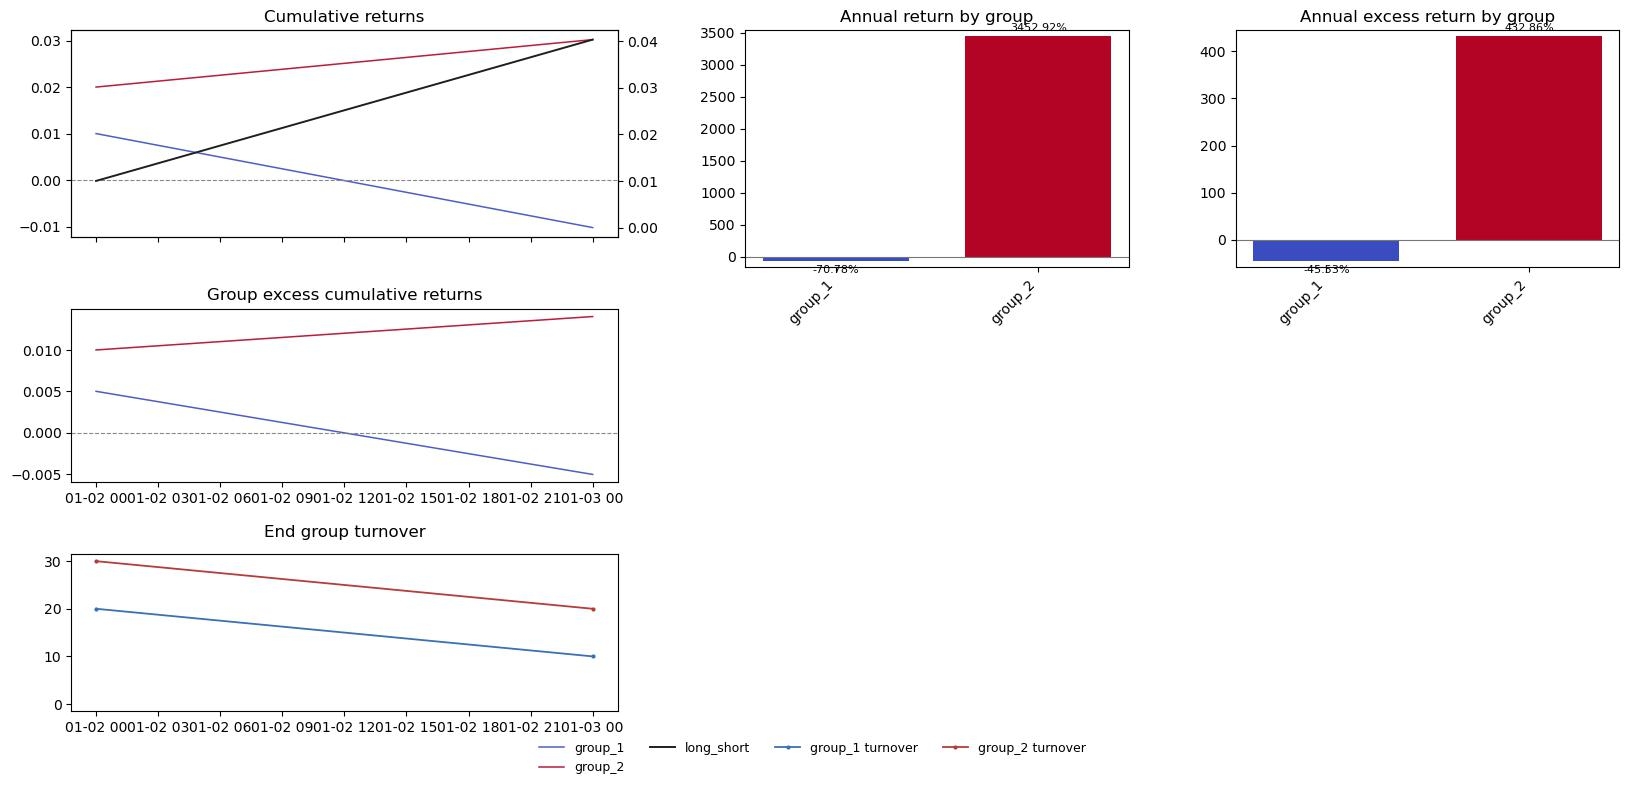
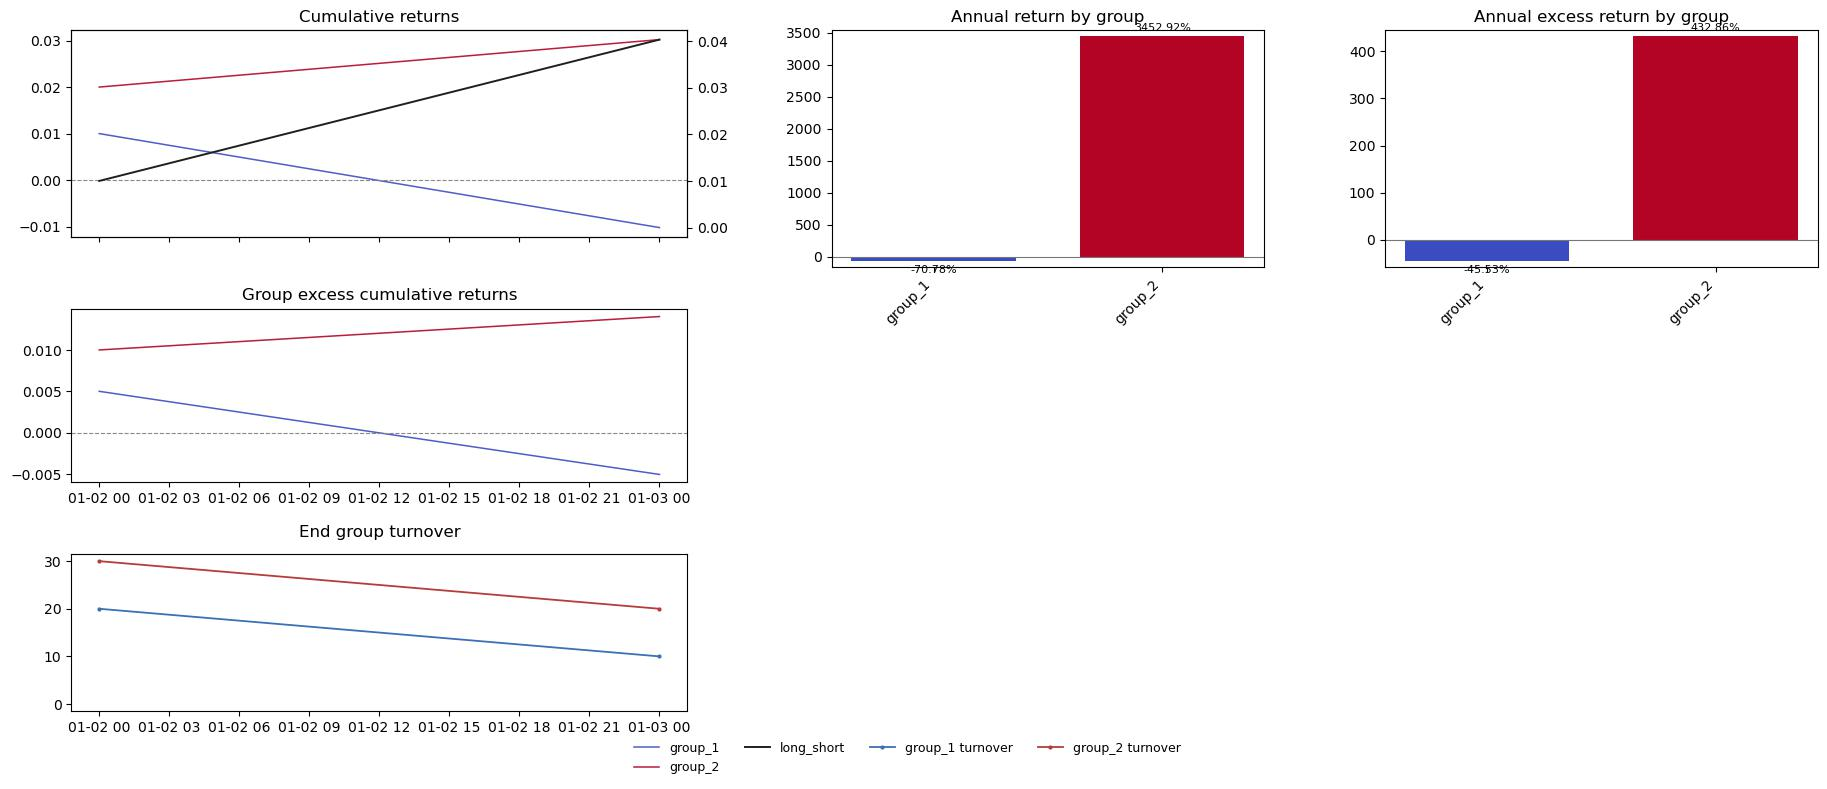
Show rolling 10-period Barra exposure in plots

diff --git a/analysis_tools/yq_analysis/plots.py b/analysis_tools/yq_analysis/plots.py
@@ -431,7 +431,7 @@ def _plot_barra_exposure_timeseries(
         )
         if series.empty:
             continue
-        series = series.cumsum()
+        series = series.rolling(10, min_periods=1).mean()
         (line,) = ax.plot(
             series.index,
             series.values,
@@ -447,7 +447,7 @@ def _plot_barra_exposure_timeseries(
         ax.set_axis_off()
         return [], []
     ax.axhline(0.0, color="#888888", linewidth=0.8, linestyle="--")
-    ax.set_title("Cumulative long group Barra exposure")
+    ax.set_title("Rolling 10-period long group Barra exposure")
     _pad_single_axis(ax, values)
     return handles, labels
 

diff --git a/analysis_tools/tests/test_plots.py b/analysis_tools/tests/test_plots.py
@@ -81,7 +81,7 @@ def test_plot_return_summary_accepts_barra_exposure() -> None:
     assert isinstance(fig, Figure)
     assert len(fig.axes) >= 8
     titles = {axis.get_title() for axis in fig.axes}
-    assert "Cumulative long group Barra exposure" in titles
+    assert "Rolling 10-period long group Barra exposure" in titles
     assert "Mean factor-Barra Pearson IC" in titles
     labels = [text.get_text() for axis in fig.axes for text in axis.texts]
     assert "0.12" in labels
